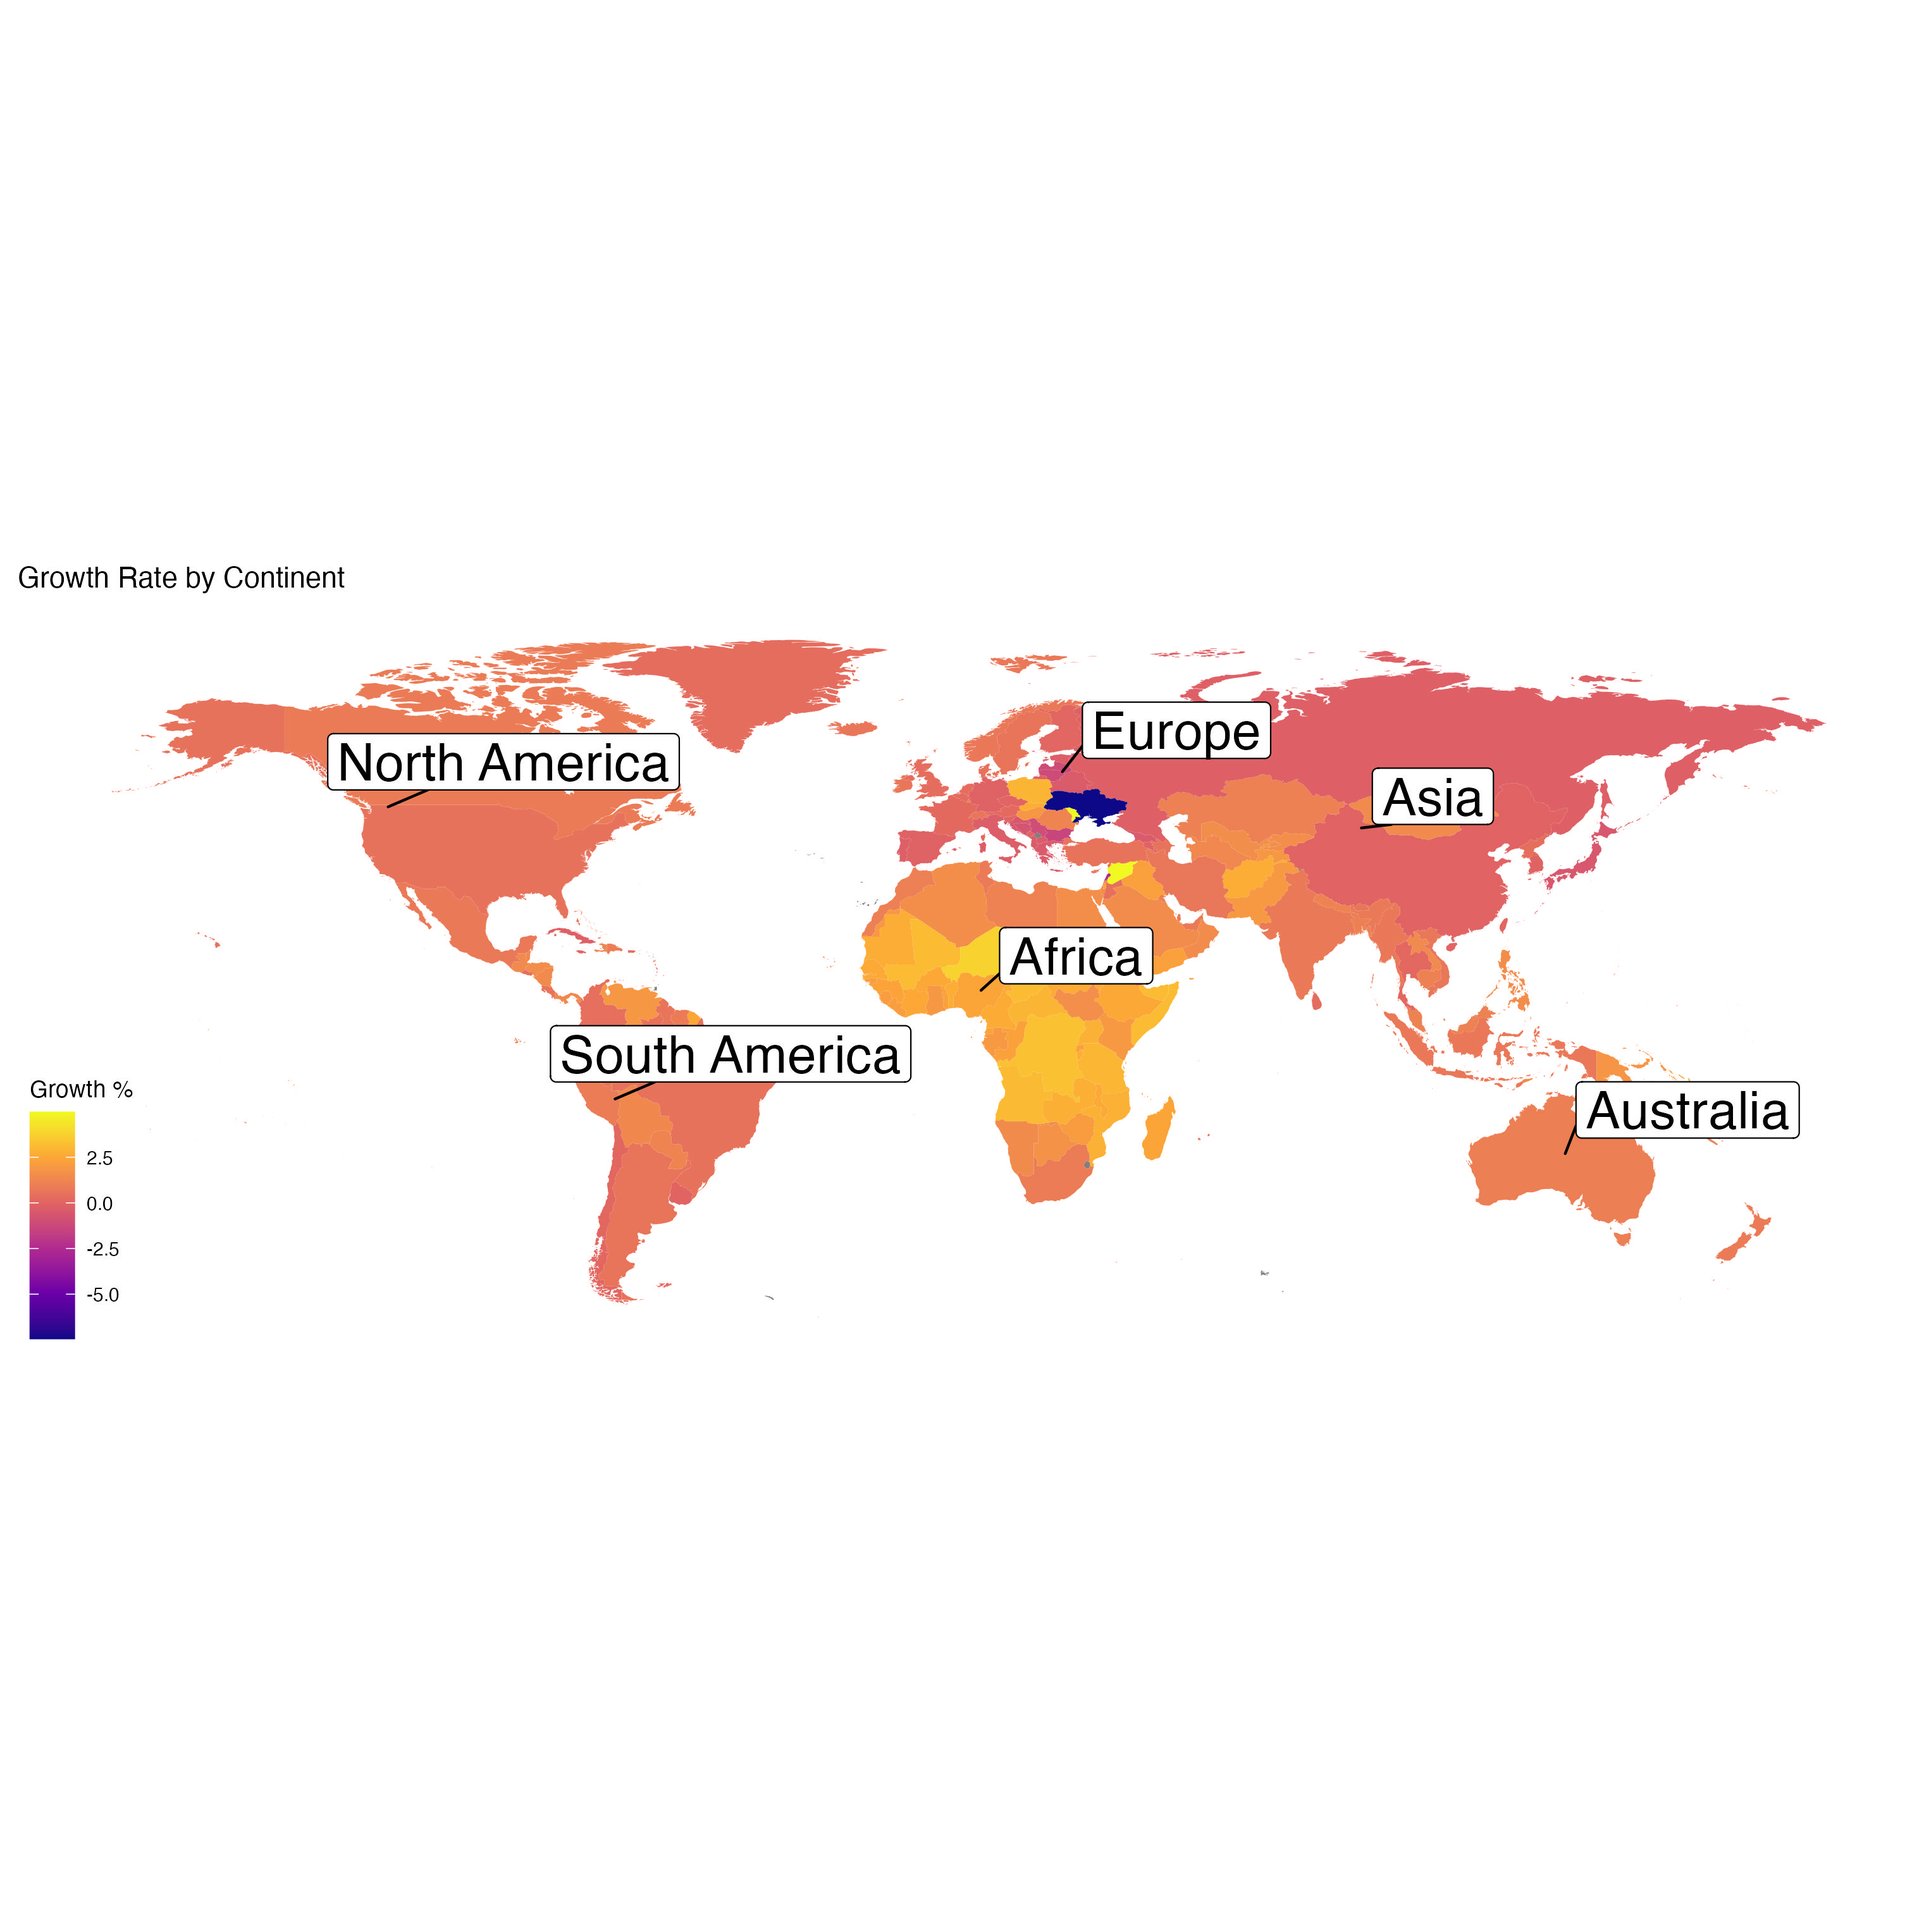
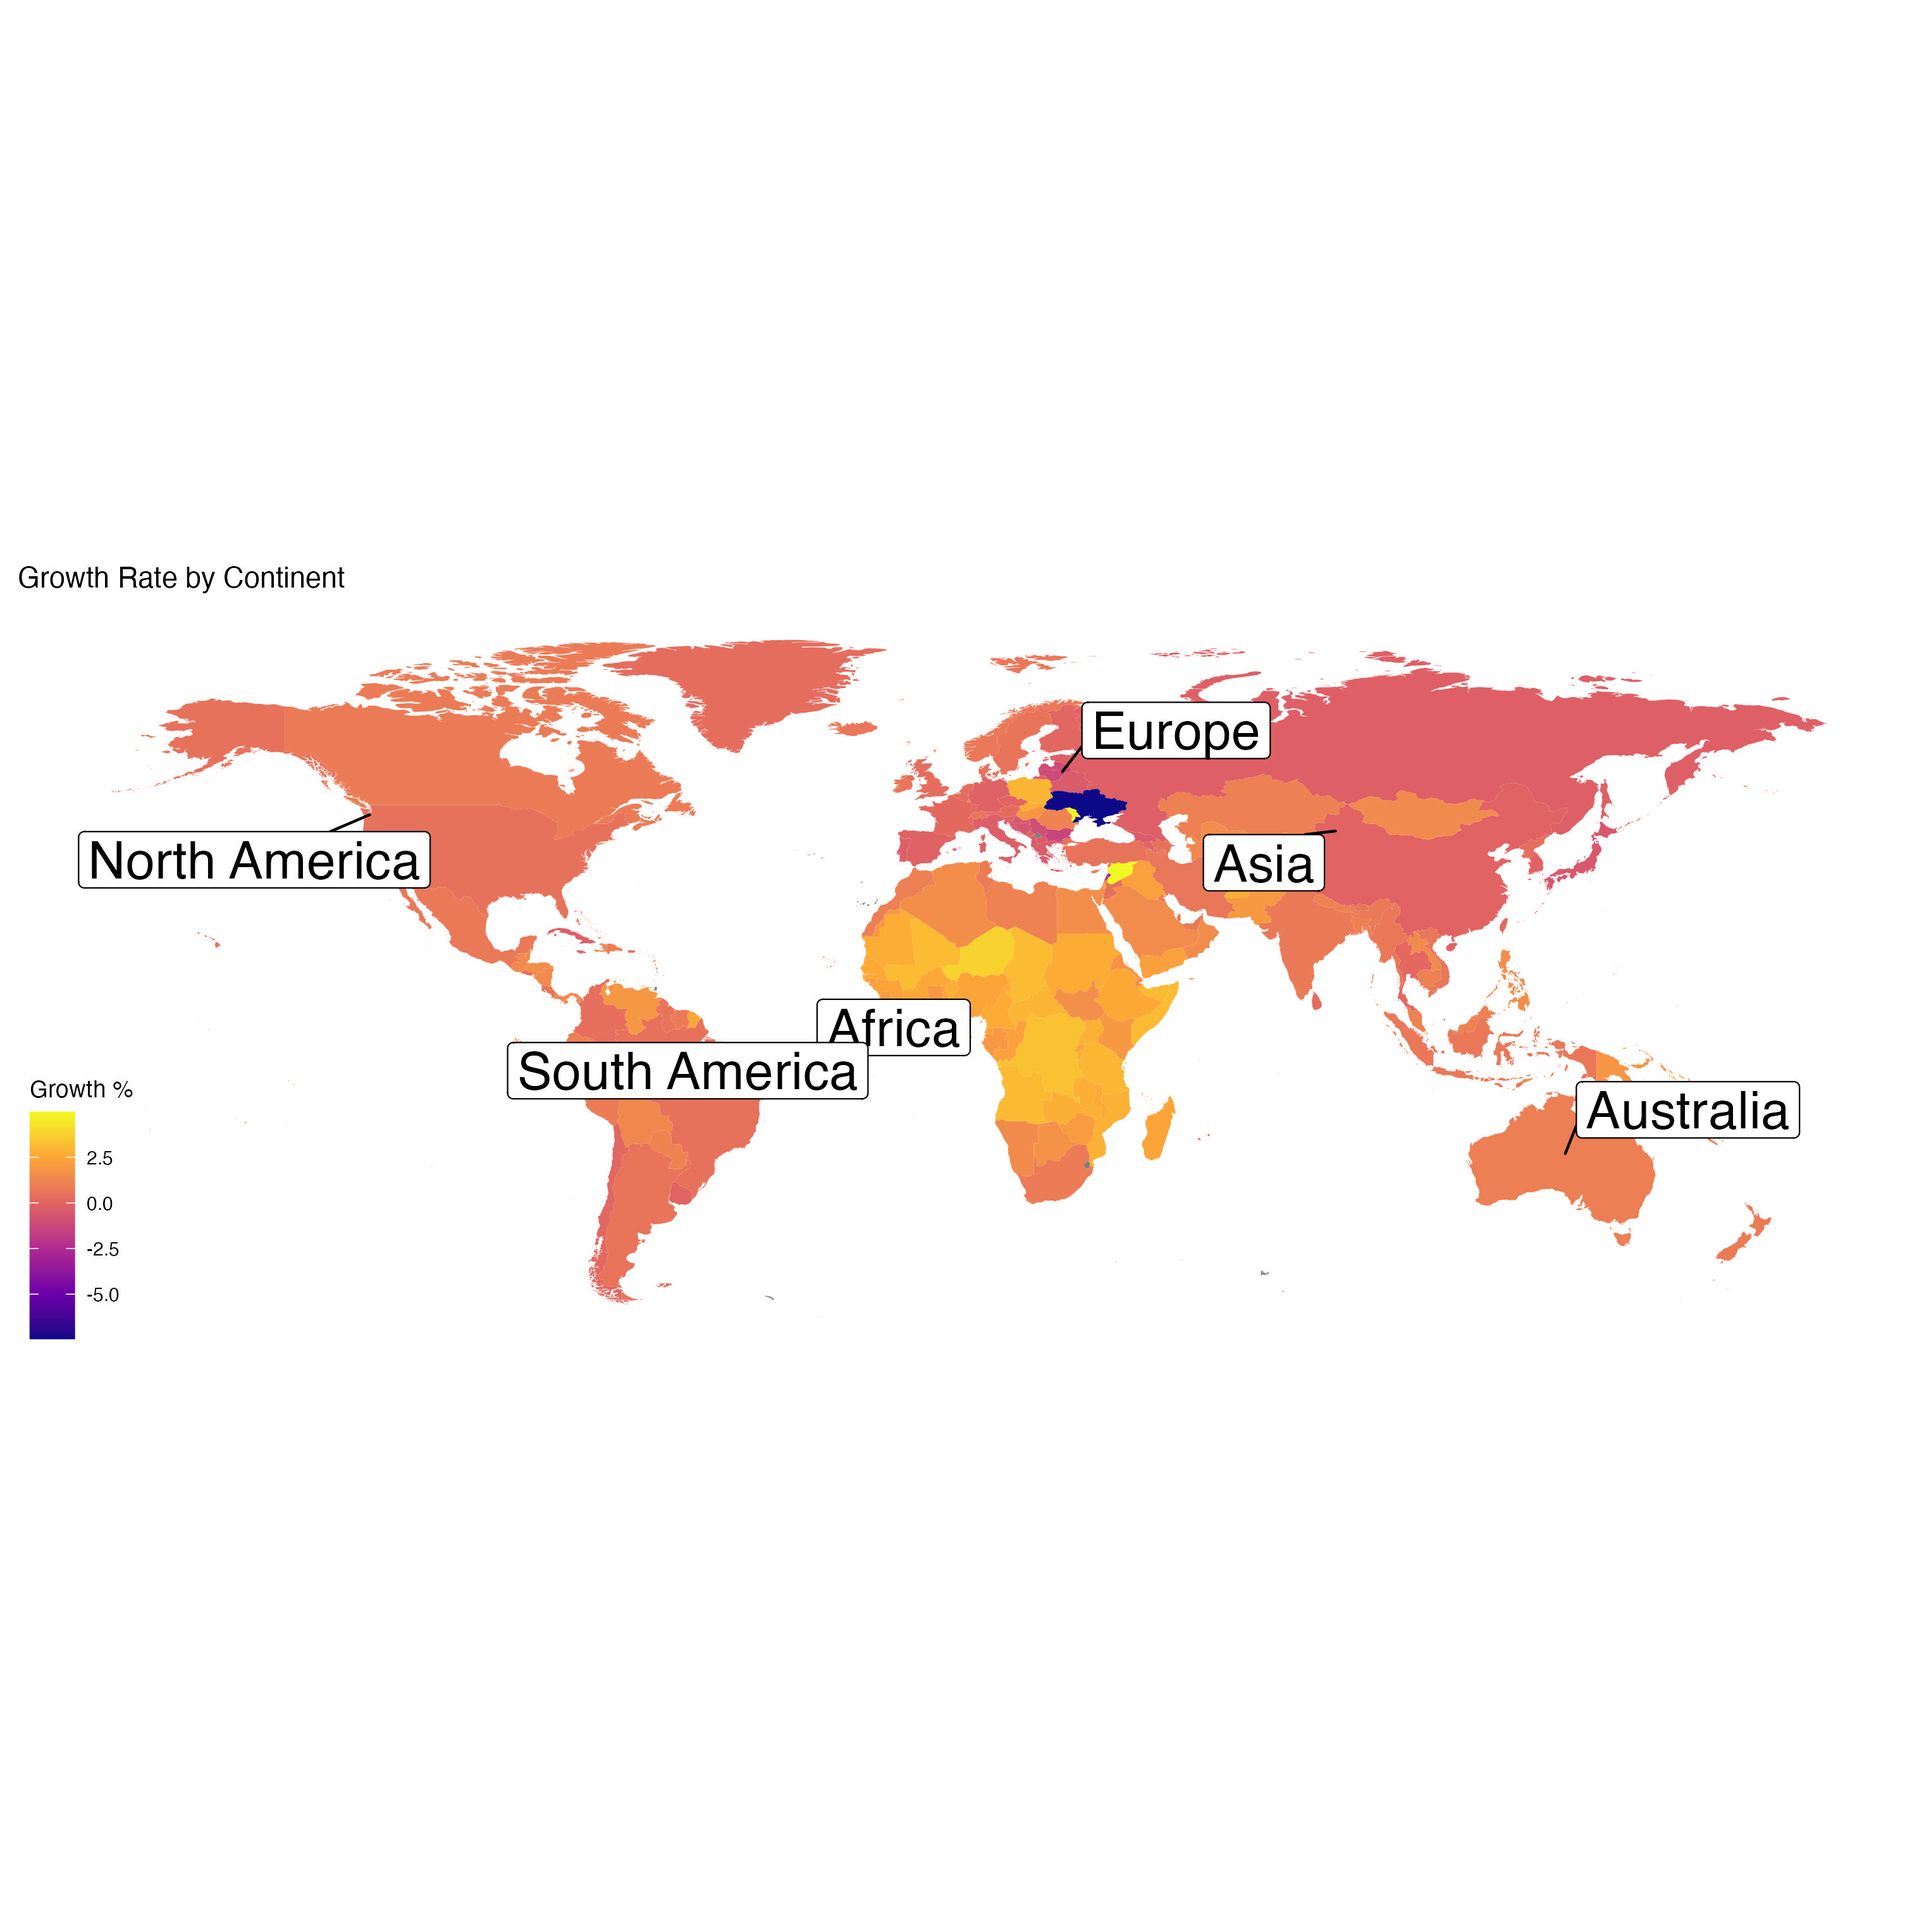
update README
changes Growth Rate by Country to Continent

diff --git a/README.md b/README.md
@@ -4,7 +4,7 @@ In this project, I explore and analyze a world population dataset in the R progr
 Can you tell which countries in Africa have the highest growth?
 
 
-![Growth Rate By Country in R](world_plot.jpg)
+![Growth Rate By Continent in R](world_plot.jpg)
 
 ## Context
 
